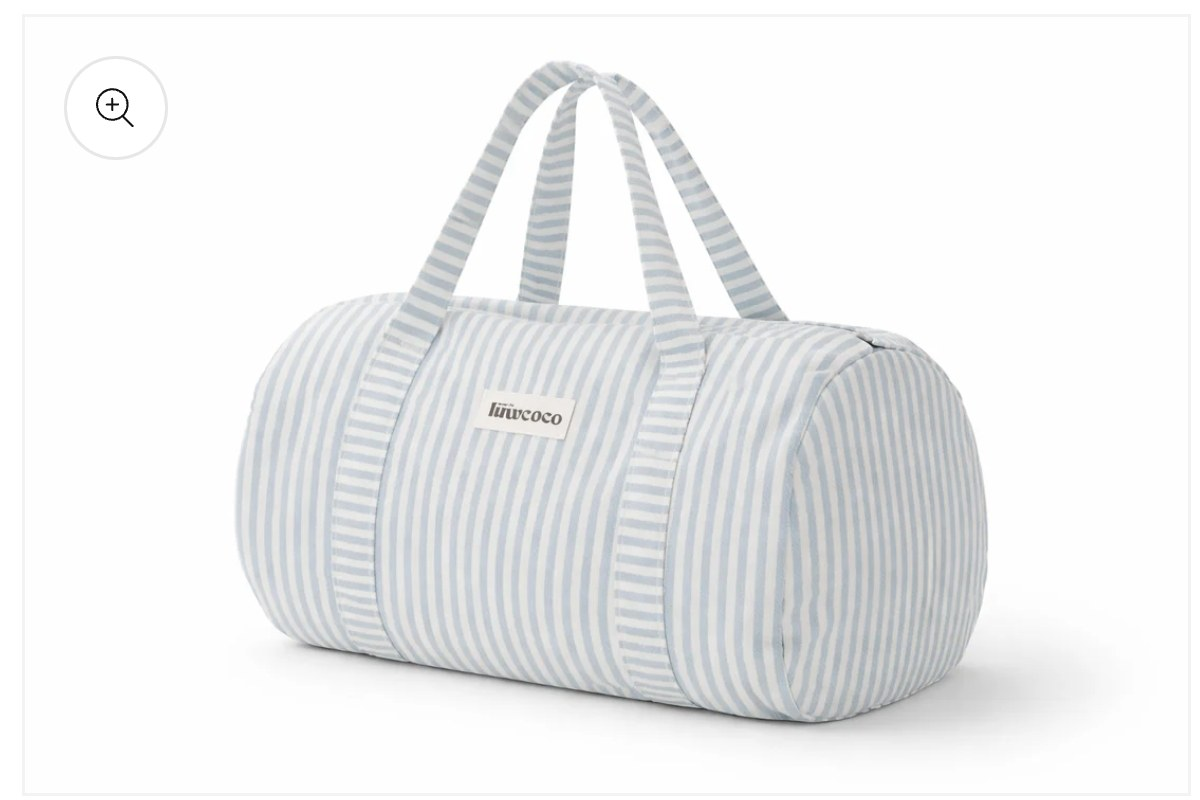
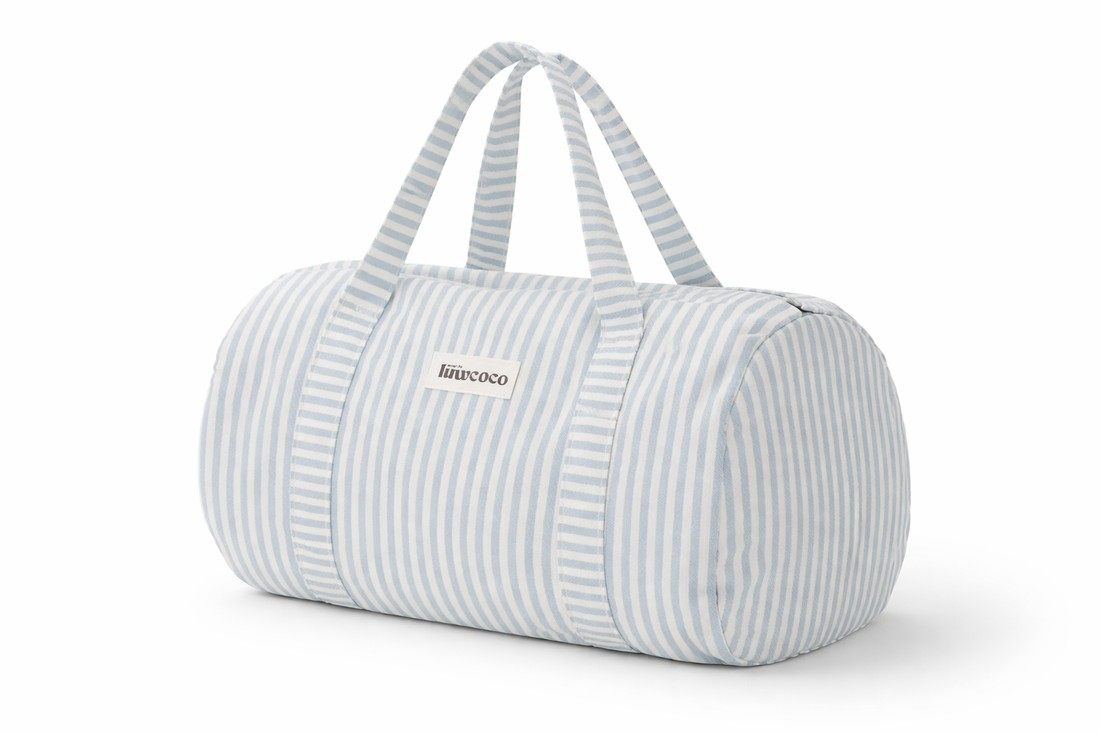
Mejorar calidad de imágenes y añadir galería de fotos reales
Sustituye las fotos/portadas recortadas de capturas por versiones
limpias de mayor calidad. Separa el cross-fade del montaje por
scroll: al terminar de coser las piezas, la foto real queda fija
(fuera del área con scroll-jacking) con una galería de miniaturas
para ver distintos ángulos del producto.

Changed region(s): [[0.1545, 0.06, 0.8345, 0.9304], [0.0618, 0.1201, 0.1236, 0.1501]]

diff --git a/src/components/ScrollAssembly.tsx b/src/components/ScrollAssembly.tsx
@@ -8,12 +8,10 @@ import { withBasePath } from "@/lib/basePath";
 
 export function ScrollAssembly({
   icon,
-  photoImage,
   patternImage,
   productName,
 }: {
   icon: IconName;
-  photoImage?: string;
   patternImage?: string;
   productName: string;
 }) {
@@ -27,16 +25,14 @@ export function ScrollAssembly({
   useMotionValueEvent(scrollYProgress, "change", (v) => setProgress(v));
 
   const pieces = iconPieces[icon];
-  const steps = pieces.length + (photoImage ? 1 : 0);
-  const stepSize = 1 / steps;
+  const stepSize = 1 / pieces.length;
   const revealAt = (i: number) =>
     Math.min(1, Math.max(0, (progress - i * stepSize) / stepSize));
 
-  const photoOpacity = photoImage ? revealAt(pieces.length) : 0;
   const finished = progress > 0.97;
 
   return (
-    <div ref={sectionRef} className="relative" style={{ height: `${steps * 55 + 45}vh` }}>
+    <div ref={sectionRef} className="relative" style={{ height: `${pieces.length * 55 + 45}vh` }}>
       <div className="sticky top-24 flex h-[65vh] items-center justify-center overflow-hidden rounded-3xl border border-line bg-gradient-to-br from-denim/40 to-cream-dim">
         <svg
           viewBox="0 0 120 120"
@@ -63,20 +59,8 @@ export function ScrollAssembly({
           })}
         </svg>
 
-        {photoImage && (
-          <div className="absolute inset-0" style={{ opacity: photoOpacity }}>
-            <Image
-              src={withBasePath(photoImage)}
-              alt={`${productName} — foto del patrón terminado`}
-              fill
-              sizes="(min-width: 640px) 50vw, 100vw"
-              className="object-cover"
-            />
-          </div>
-        )}
-
         <span className="absolute bottom-4 rounded-full bg-cream/90 px-4 py-1.5 text-xs font-medium text-ink-soft backdrop-blur">
-          {finished ? "¡Terminado! 🧵" : "Sigue bajando para coserlo…"}
+          {finished ? "¡Terminado! 🧵 Sigue bajando para ver la bolsa real" : "Sigue bajando para coserlo…"}
         </span>
 
         {patternImage && (

diff --git a/src/components/ProductGallery.tsx b/src/components/ProductGallery.tsx
@@ -1,0 +1,55 @@
+"use client";
+
+import { useState } from "react";
+import Image from "next/image";
+import { withBasePath } from "@/lib/basePath";
+
+export function ProductGallery({
+  photoImage,
+  gallery = [],
+  productName,
+}: {
+  photoImage: string;
+  gallery?: string[];
+  productName: string;
+}) {
+  const images = [photoImage, ...gallery];
+  const [active, setActive] = useState(0);
+
+  return (
+    <div className="mt-6">
+      <div className="relative aspect-square overflow-hidden rounded-3xl border border-line bg-cream-dim">
+        <Image
+          src={withBasePath(images[active])}
+          alt={`${productName} — foto del patrón terminado`}
+          fill
+          sizes="(min-width: 640px) 50vw, 100vw"
+          className="object-cover"
+        />
+      </div>
+
+      {images.length > 1 && (
+        <div className="mt-3 flex gap-3">
+          {images.map((img, i) => (
+            <button
+              key={img}
+              onClick={() => setActive(i)}
+              className={`relative h-16 w-16 shrink-0 overflow-hidden rounded-xl border transition-colors sm:h-20 sm:w-20 ${
+                active === i ? "border-ink" : "border-line hover:border-ink/40"
+              }`}
+              aria-label={`Ver foto ${i + 1} de ${productName}`}
+            >
+              <Image
+                src={withBasePath(img)}
+                alt=""
+                fill
+                sizes="80px"
+                className="object-cover"
+              />
+            </button>
+          ))}
+        </div>
+      )}
+    </div>
+  );
+}

diff --git a/src/app/patrones/[slug]/page.tsx b/src/app/patrones/[slug]/page.tsx
@@ -1,6 +1,7 @@
 import { notFound } from "next/navigation";
 import { getProduct, levelLabels, products } from "@/lib/products";
 import { ScrollAssembly } from "@/components/ScrollAssembly";
+import { ProductGallery } from "@/components/ProductGallery";
 import { CheckoutButton } from "@/components/CheckoutButton";
 import { FadeIn } from "@/components/FadeIn";
 import { FileText, PlayCircle, Ruler } from "lucide-react";
@@ -21,12 +22,26 @@ export default async function ProductPage({
   return (
     <div className="mx-auto max-w-6xl px-5 py-16 sm:px-8">
       <div className="grid gap-12 sm:grid-cols-2 sm:items-start">
-        <ScrollAssembly
-          icon={product.icon}
-          photoImage={product.photoImage}
-          patternImage={product.patternImage}
-          productName={product.name}
-        />
+        <div>
+          <ScrollAssembly
+            icon={product.icon}
+            patternImage={product.patternImage}
+            productName={product.name}
+          />
+
+          {product.photoImage && (
+            <FadeIn>
+              <h2 className="mt-2 font-display text-lg font-medium">
+                La bolsa terminada
+              </h2>
+              <ProductGallery
+                photoImage={product.photoImage}
+                gallery={product.gallery}
+                productName={product.name}
+              />
+            </FadeIn>
+          )}
+        </div>
 
         <FadeIn delay={0.1} className="sm:sticky sm:top-24">
           {(product.isNew || product.isBestseller) && (

diff --git a/src/lib/products.ts b/src/lib/products.ts
@@ -19,6 +19,8 @@ export type Product = {
   photoImage?: string;
   /** Portada real del patrón en PDF (luwcoco.com) */
   patternImage?: string;
+  /** Fotos adicionales del producto acabado, para la galería */
+  gallery?: string[];
 };
 
 export const products: Product[] = [
@@ -53,6 +55,7 @@ export const products: Product[] = [
     isBestseller: true,
     photoImage: "/images/maxibag-photo.jpg",
     patternImage: "/images/maxibag-pattern.jpg",
+    gallery: ["/images/maxibag-photo-2.jpg"],
   },
   {
     slug: "pantalon-fluido-palazzo",
